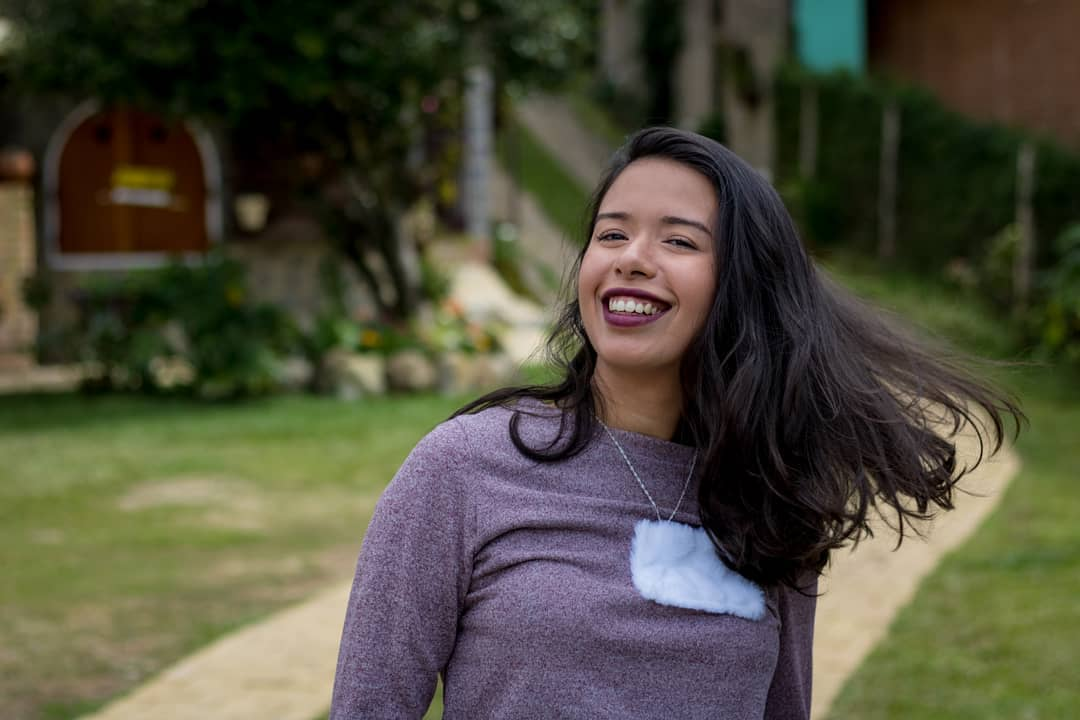
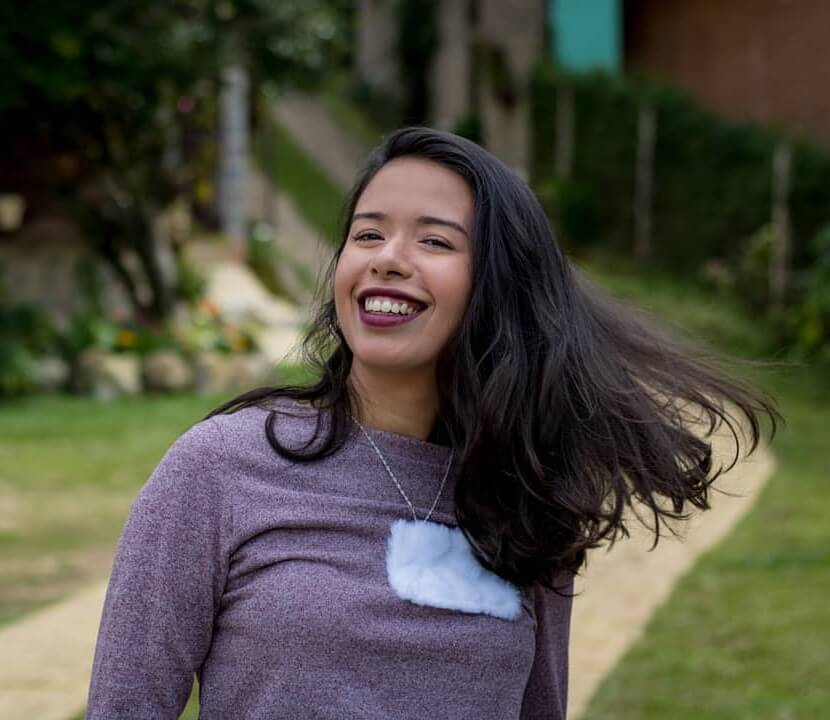
Fix meta og:image, adding new photo

diff --git a/index.html b/index.html
@@ -10,9 +10,7 @@
     <meta property="og:description" content="Fotografia externa e estúdio, videos, ensaios, coberturas de festas, aniversários e casamentos" />
     <meta property="og:site_name" content="Mony Naldoni Fotografia" />
     <meta property="og:type" content="website" />
-    <meta property="og:image" content="images/author.jpg" />
-    <meta property="og:image:width" content="1200" />
-    <meta property="og:image:height" content="700" />
+    <meta property="og:image" content="https://monynaldoni.com/images/author-3.jpg" />
     
     <meta property="description" content="Fotografia externa e estúdio, videos, ensaios, coberturas de festas, aniversários e casamentos" />
 
@@ -52,6 +50,13 @@
         footer {
             padding-bottom: 0 !important;
         }
+        .hero-wrap .author-info {
+            overflow-y: hidden !important;
+            overflow-x: hidden !important;
+        }
+        .desc {
+            padding-top: 20px;
+        }
         .map-responsive{
             overflow:hidden;
             padding-bottom:56.25%;
@@ -90,10 +95,10 @@
                     <div class="d-flex align-items-center js-fullheight">
                         <div class="author-image text img d-flex">
                             <section class="home-slider js-fullheight owl-carousel">
-                                <div class="slider-item js-fullheight" style="background-image: url(images/author.jpg);">
+                                <div class="slider-item js-fullheight" style="background-image:url(images/author-2.jpg);">
                                 </div>
 
-                                <div class="slider-item js-fullheight" style="background-image:url(images/author-2.jpg);">
+                                <div class="slider-item js-fullheight" style="background-image:url(images/author-3.jpg);">
                                 </div>
                             </section>
                         </div>
@@ -123,11 +128,11 @@
                                             <span class="icon-youtube"></span>
                                         </a>
                                     </li>
-                                    <li class="ftco-animate">
+                                    <!-- <li class="ftco-animate">
                                         <a href="http://monynaldoni.blogspot.com/">
                                             <span class="icon-rss"></span>
                                         </a>
-                                    </li>
+                                    </li> -->
                                 </ul>
                             </div>
                         </div>
